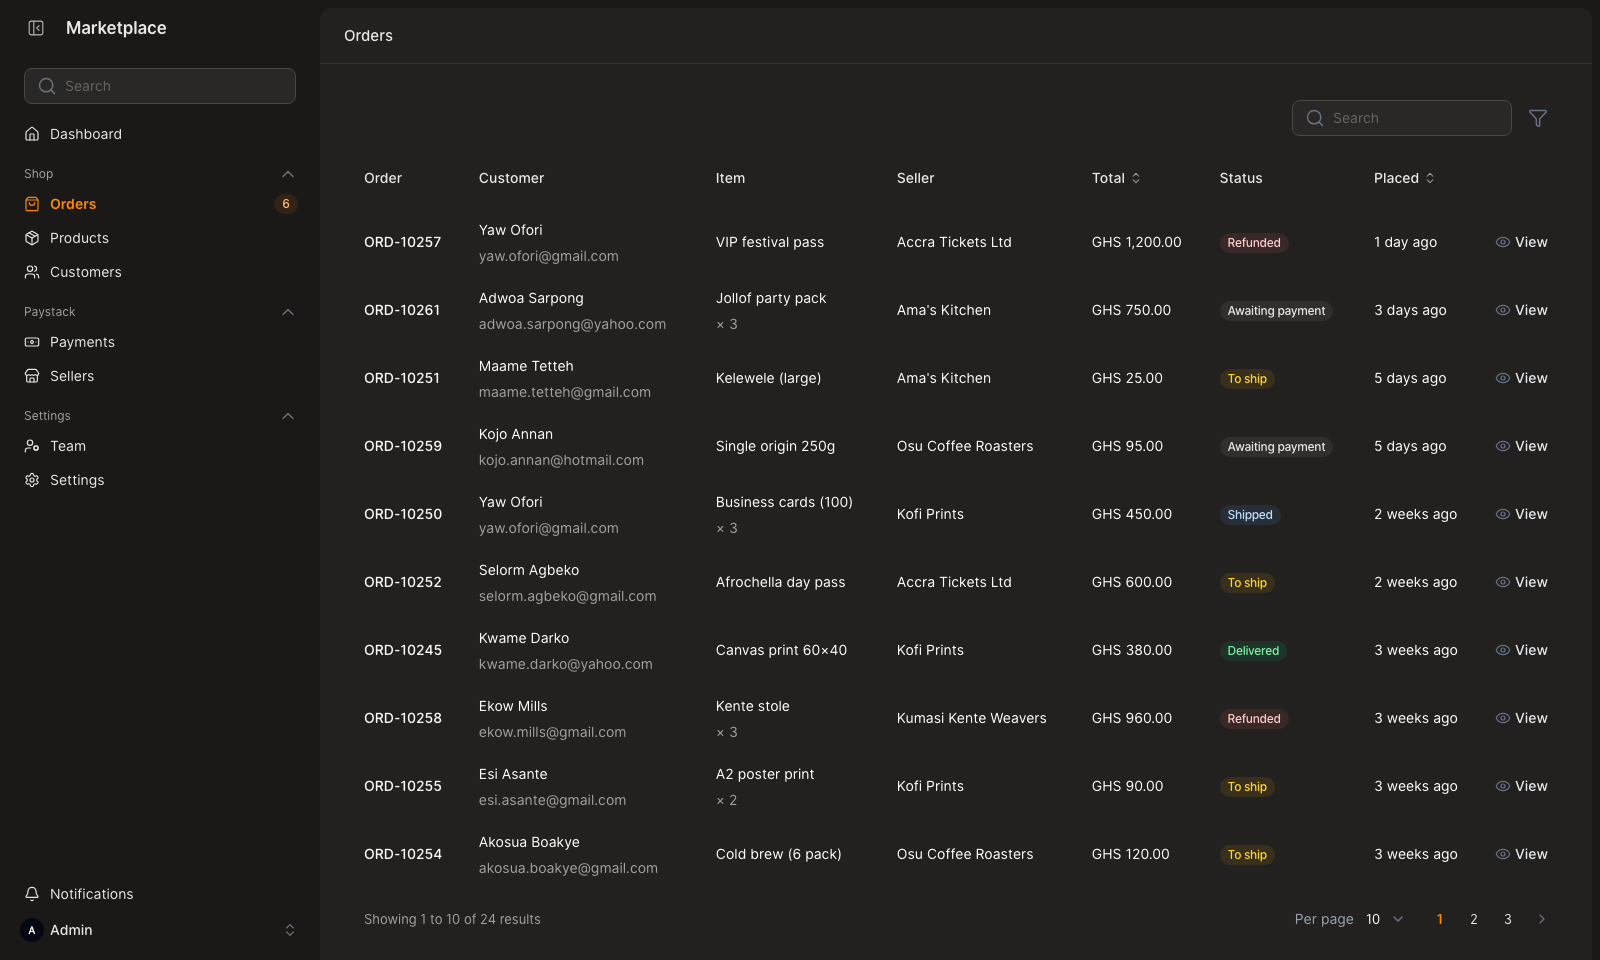
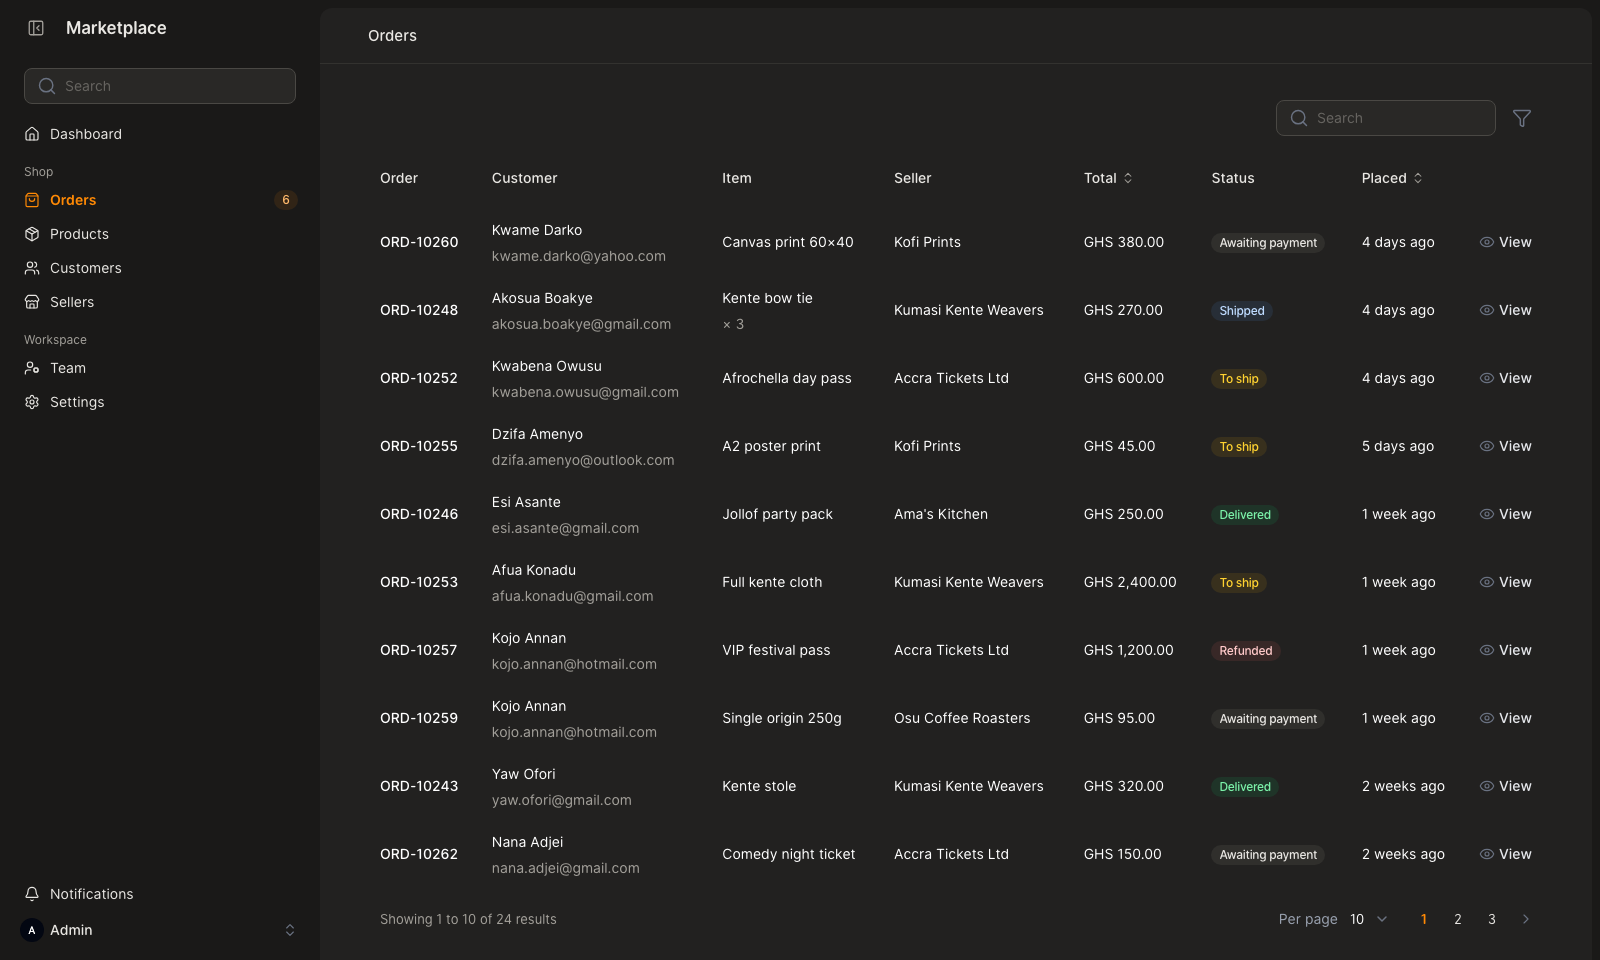
Docs: screenshots from the theme-only demo, and no Paystack in the examples

diff --git a/docs/customising.md b/docs/customising.md
@@ -364,7 +364,7 @@ in light and dark mode. In Blade, with Tailwind:
 
 ```blade
 <p class="text-sm text-(--kinetics-muted-foreground)">
-    Paystack pays sellers the next working day.
+    Sellers are paid the next working day.
 </p>
 
 <div class="rounded-(--kinetics-radius) bg-(--kinetics-card) p-4">
